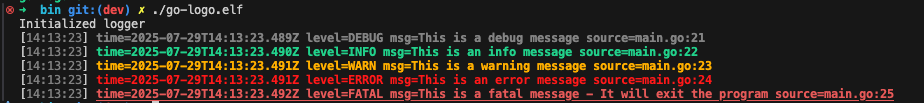
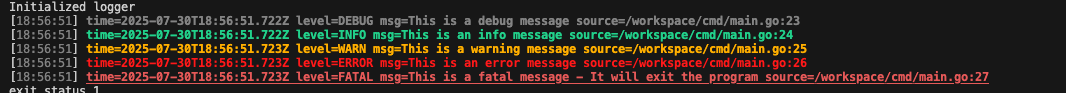
Updated README

diff --git a/README.md b/README.md
@@ -17,12 +17,11 @@ A golang logging library that allows logging to the console, to a channel or bot
 ```bash
 /workspace/bin ./go-logo.elf
 Initialized logger
-[14:11:09] time=2025-07-29T14:11:09.752Z level=DEBUG msg=This is a debug message source=main.go:21
-[14:11:09] time=2025-07-29T14:11:09.752Z level=INFO msg=This is an info message source=main.go:22
-[14:11:09] time=2025-07-29T14:11:09.752Z level=WARN msg=This is a warning message source=main.go:23
-[14:11:09] time=2025-07-29T14:11:09.753Z level=ERROR msg=This is an error message source=main.go:24
-[14:11:09] time=2025-07-29T14:11:09.753Z level=FATAL msg=This is a fatal message - It will exit the program source=main.go:25
-exit status 1
+[18:56:51] time=2025-07-30T18:56:51.722Z level=DEBUG msg=This is a debug message source=/workspace/cmd/main.go:23
+[18:56:51] time=2025-07-30T18:56:51.722Z level=INFO msg=This is an info message source=/workspace/cmd/main.go:24
+[18:56:51] time=2025-07-30T18:56:51.723Z level=WARN msg=This is a warning message source=/workspace/cmd/main.go:25
+[18:56:51] time=2025-07-30T18:56:51.723Z level=ERROR msg=This is an error message source=/workspace/cmd/main.go:26
+[18:56:51] time=2025-07-30T18:56:51.723Z level=FATAL msg=This is a fatal message - It will exit the program source=/workspace/cmd/main.go:27
 ```
 
 ### Colored output
